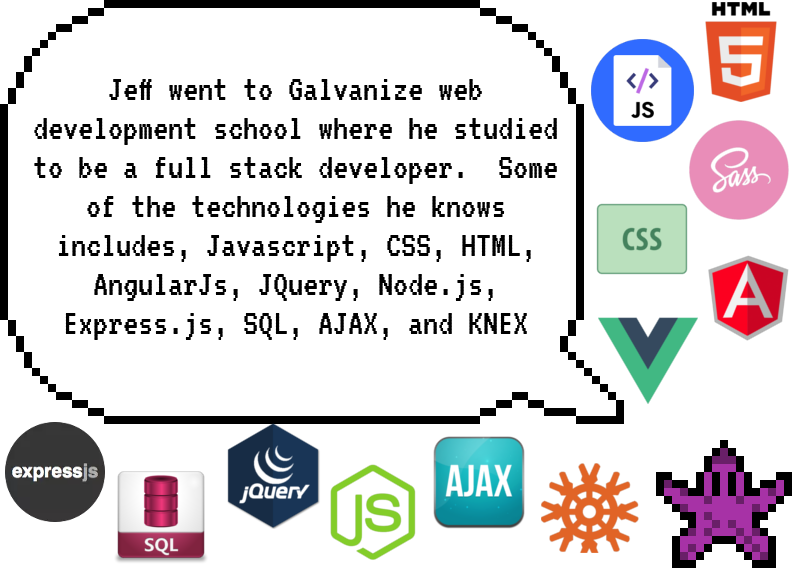
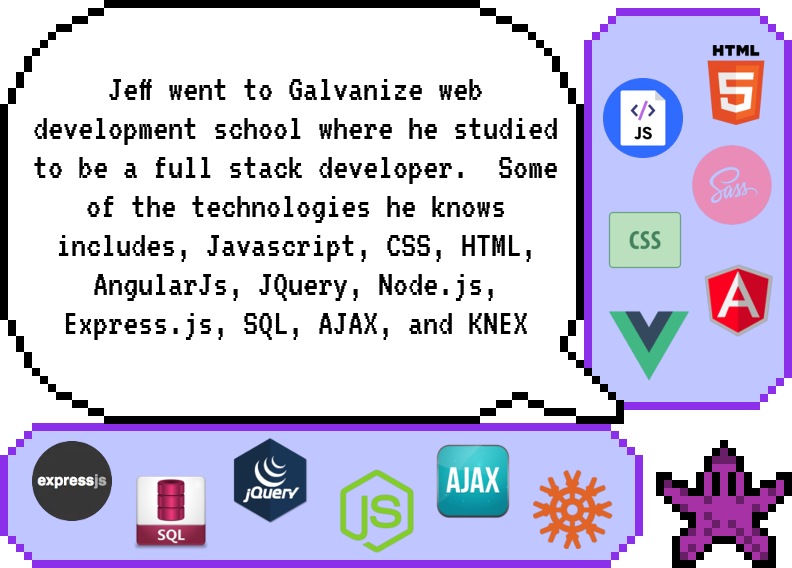
crystals

diff --git a/app/public/css/main.css b/app/public/css/main.css
@@ -77,8 +77,10 @@ footer .nav>li>a:hover {
 }
 
 #purpleT {
+    position: relative;
     width: 18%;
     float: left;
+    z-index: 100;
     margin-top: 1%;
     margin-left: 4%;
     cursor: pointer;
@@ -252,6 +254,8 @@ footer .nav>li>a:hover {
 }
 
 #seaTwo {
+    position: relative;
+    z-index: 0;
     margin-bottom: 4%;
     margin-right: 12%;
 }
@@ -311,6 +315,8 @@ footer .nav>li>a:hover {
 }
 
 #purplestar {
+  position: relative;
+  z-index: 2;
     width: 40%;
     float: left;
     justify-content: flex-end;
@@ -400,6 +406,7 @@ footer .nav>li>a:hover {
 }
 
 #panda {
+    position: relative;
     display: flex;
     align-self: center;
     z-index: 100;
